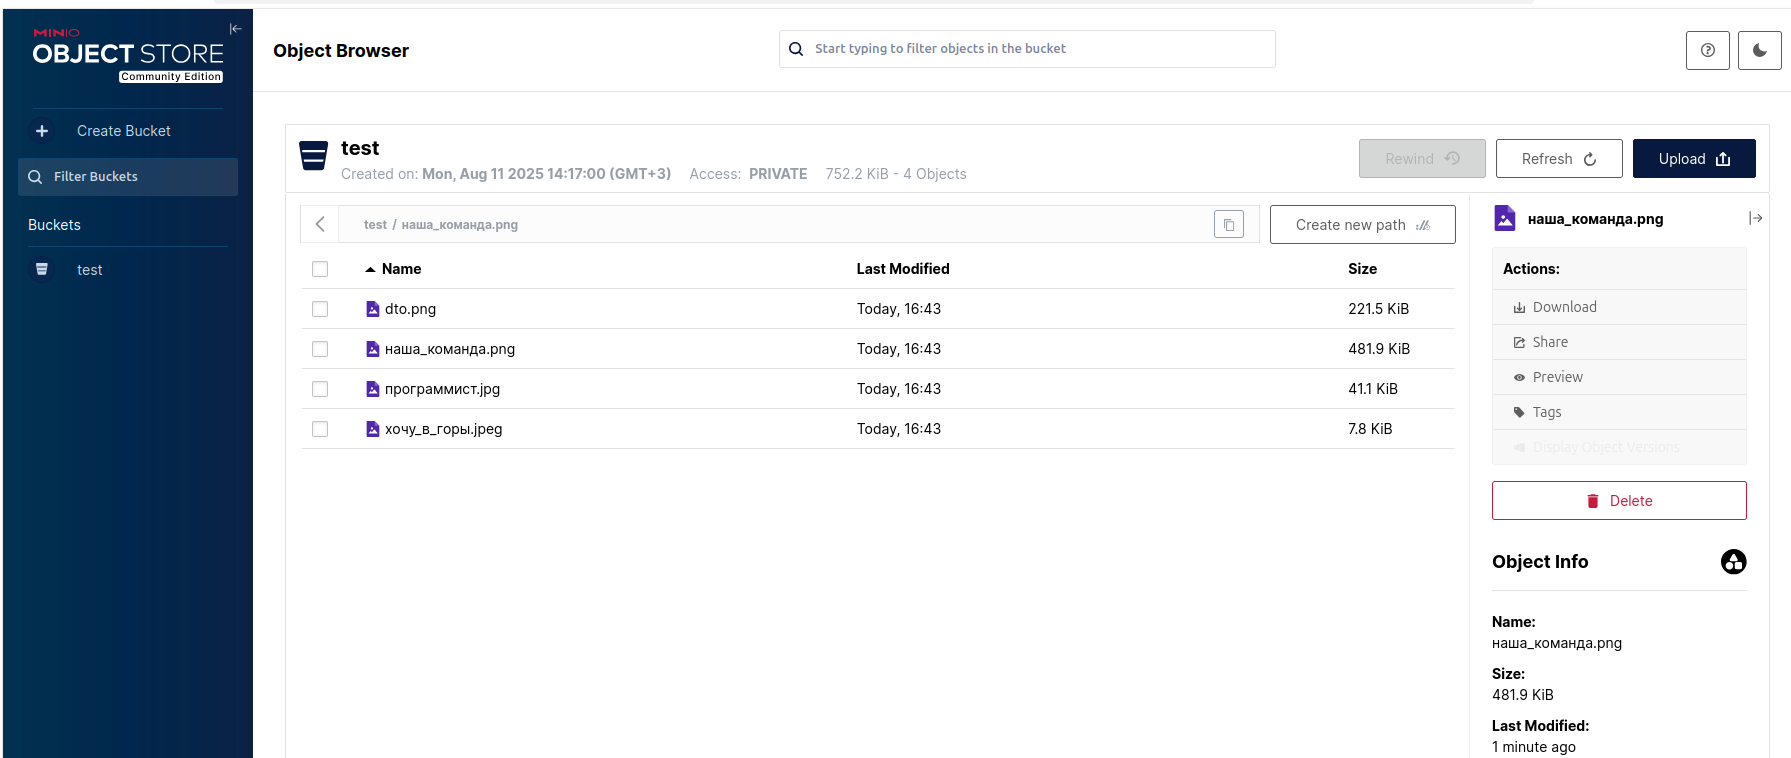
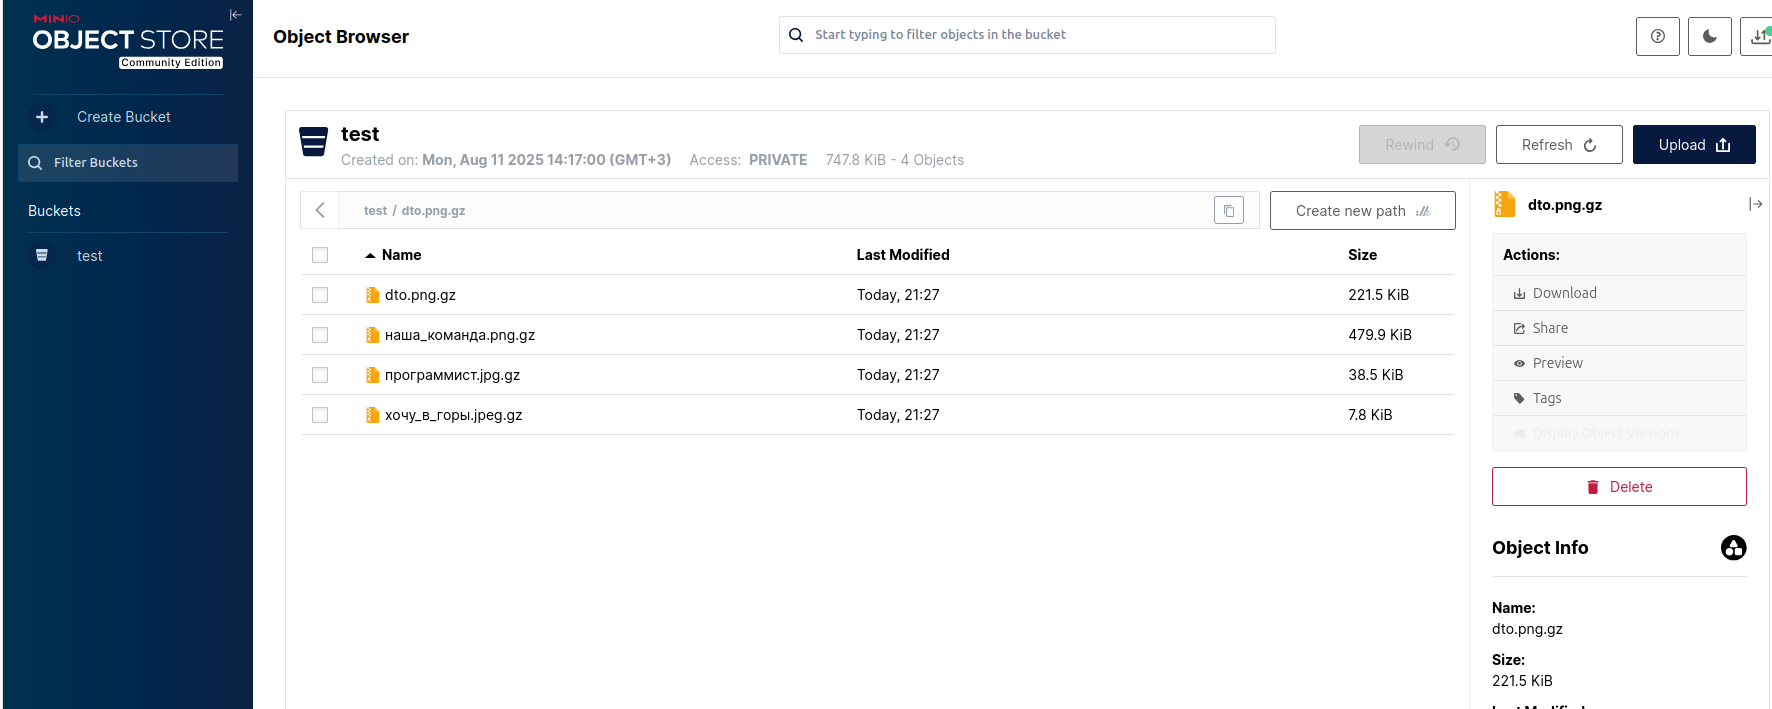
KafkaS3Donev2

diff --git a/internal/controller/upload_image_and_save_project.go b/internal/controller/upload_image_and_save_project.go
@@ -1,10 +1,10 @@
 package controller
 
 import (
+	"compress/gzip"
 	"context"
 	"fmt"
-	"log"
-	"net/http"
+	"io"
 	"os"
 
 	"github.com/minio/minio-go/v7"
@@ -25,26 +25,38 @@ func (c *Controller) UploadImageAndSaveProject(ctx context.Context) error {
 
 	for _, file := range files {
 		filePath := fmt.Sprintf("%v/%v", imageDirPath, file.Name())
+		fileName := file.Name() + ".gz"
 
-		contentType, err := detectContentType(filePath)
-		if err != nil {
-			c.Logger.Error("Ошибка в определении типа файла", zap.Error(err))
-			return fmt.Errorf("Ошибка в определении типа файла: %w", err)
-		}
+		pr, pw := io.Pipe()
+
+		go func() {
+			defer pw.Close()
+
+			file, err := os.Open(filePath)
+			if err != nil {
+				c.Logger.Error("Ошибка открытия файла, метод UploadImageAndSaveProject", zap.Error(err))
+				return
+			}
+			defer file.Close()
+
+			zip := gzip.NewWriter(pw)
+			defer zip.Close()
+
+			_, err = io.Copy(zip, file)
+			if err != nil {
+				c.Logger.Error("Ошибка при копировании, метод UploadImageAndSaveProject", zap.Error(err))
+				return
+			}
+		}()
 
 		// сохранили
-		info, err := c.S3.Minio.FPutObject(ctx, c.S3.Bucket, file.Name(), filePath, minio.PutObjectOptions{
-			ContentType: contentType,
-		})
-		if err != nil {
-			c.Logger.Error("Ошибка отправки изображения в s3, метод UploadImage", zap.Error(err))
-			return fmt.Errorf("Ошибка отправки изображения в s3, метод UploadImage: %w", err)
+		if err := saveImageInS3(ctx, c.S3.Minio, c.Logger, c.S3.Bucket, fileName, pr); err != nil {
+			return fmt.Errorf("Ошибка при сохранении изображения в S3: %w", err)
 		}
-		c.Logger.Info("Изображение отправлено, информация:", info)
 
 		// взяли
-		if err := getImageAndSaveInProject(ctx, c.S3.Minio, c.Logger, c.S3.Bucket, file.Name()); err != nil {
-			return fmt.Errorf("Ошибка в загрузке изображения: %w", err)
+		if err := saveImageInProject(ctx, c.S3.Minio, c.Logger, c.S3.Bucket, fileName); err != nil {
+			return fmt.Errorf("Ошибка при загрузки изображения из S3: %w", err)
 		}
 		c.Logger.Info("Изображение загружено в папку download_s3_image")
 	}
@@ -52,30 +64,47 @@ func (c *Controller) UploadImageAndSaveProject(ctx context.Context) error {
 	return nil
 }
 
-func getImageAndSaveInProject(ctx context.Context, client *minio.Client, l *zap.SugaredLogger, bucket, fileName string) error {
+func saveImageInProject(ctx context.Context, client *minio.Client, l *zap.SugaredLogger, bucket, fileName string) error {
 	savePathImage := fmt.Sprintf("%v/%v", savePath, fileName)
-	err := client.FGetObject(ctx, bucket, fileName, savePathImage, minio.GetObjectOptions{})
+	image, err := client.GetObject(ctx, bucket, fileName, minio.GetObjectOptions{})
 	if err != nil {
 		l.Error("Не удалось загрузить изображение, метод GetImageAndSaveInProject", zap.Error(err))
 		return fmt.Errorf("Не удалось загрузить изображение, метод GetImageAndSaveInProject: %w", err)
+	}
+	defer image.Close()
+
+	zip, err := gzip.NewReader(image)
+	if err != nil {
+		l.Error("Ошибка декомпрессии", zap.Error(err))
+		return fmt.Errorf("Ошибка декомпрессии: %w", err)
+	}
+	defer zip.Close()
+
+	f, err := os.Create(savePathImage)
+	if err != nil {
+		l.Error("Ошибка открытия файла сохранения", zap.Error(err))
+		return fmt.Errorf("Ошибка открытия файла сохранения: %w", err)
+	}
+	defer f.Close()
+
+	_, err = io.Copy(f, zip)
+	if err != nil {
+		l.Error("Ошибка при копировании, метод UploadImageAndSaveProject", zap.Error(err))
+		return fmt.Errorf("Ошибка при копировании, метод UploadImageAndSaveProject: %w", err)
 	}
 
 	return nil
 }
 
-func detectContentType(filePath string) (string, error) {
-	log.Println(filePath)
-	file, err := os.Open(filePath)
+func saveImageInS3(ctx context.Context, client *minio.Client, l *zap.SugaredLogger, bucket, fileName string, file io.Reader) error {
+	info, err := client.PutObject(ctx, bucket, fileName, file, -1, minio.PutObjectOptions{
+		ContentType:     "image/gzip",
+		ContentEncoding: "gzip",
+	})
 	if err != nil {
-		return "", fmt.Errorf("Ошибка открытия файла, метод detectContentType: %w", err)
+		l.Error("Ошибка отправки изображения в s3, метод UploadImage", zap.Error(err))
+		return fmt.Errorf("Ошибка отправки изображения в s3, метод UploadImage: %w", err)
 	}
-	defer file.Close()
-
-	buf := make([]byte, 512)
-	n, err := file.Read(buf)
-	if err != nil {
-		return "", fmt.Errorf("Ошибка чтения файла, метод detectContentType: %w", err)
-	}
-
-	return http.DetectContentType(buf[:n]), nil
+	l.Info("Изображение отправлено, информация:", info)
+	return nil
 }
